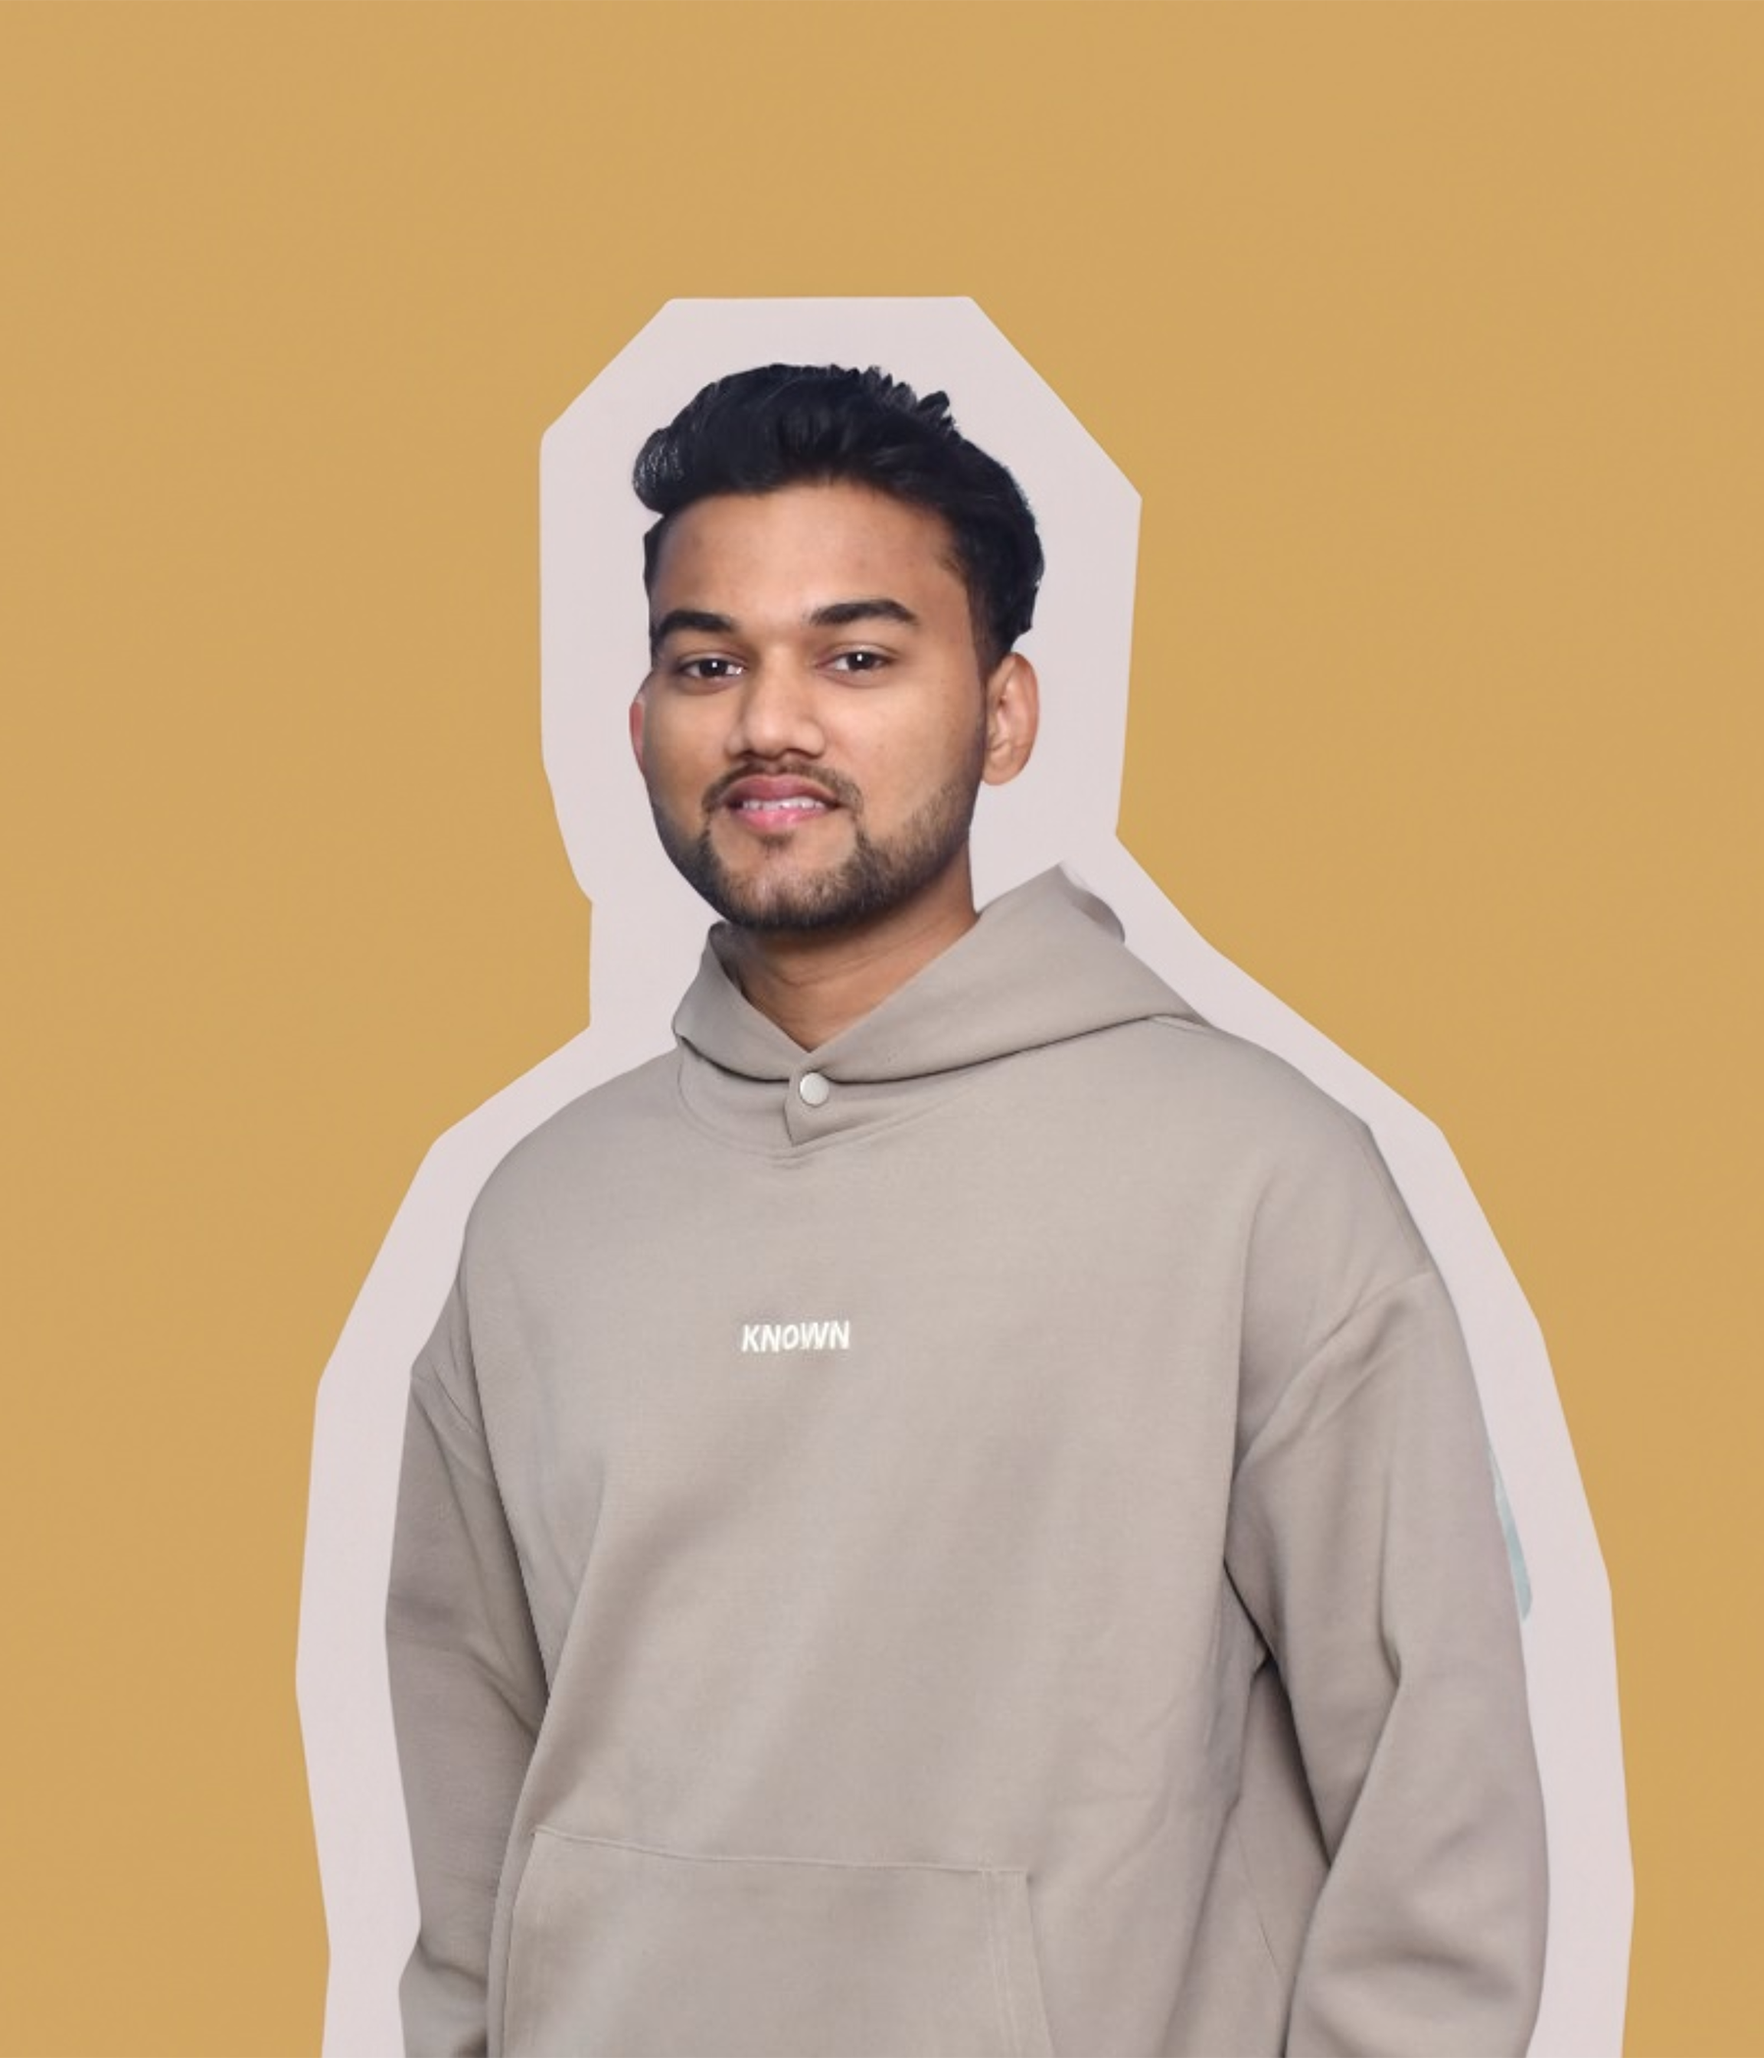
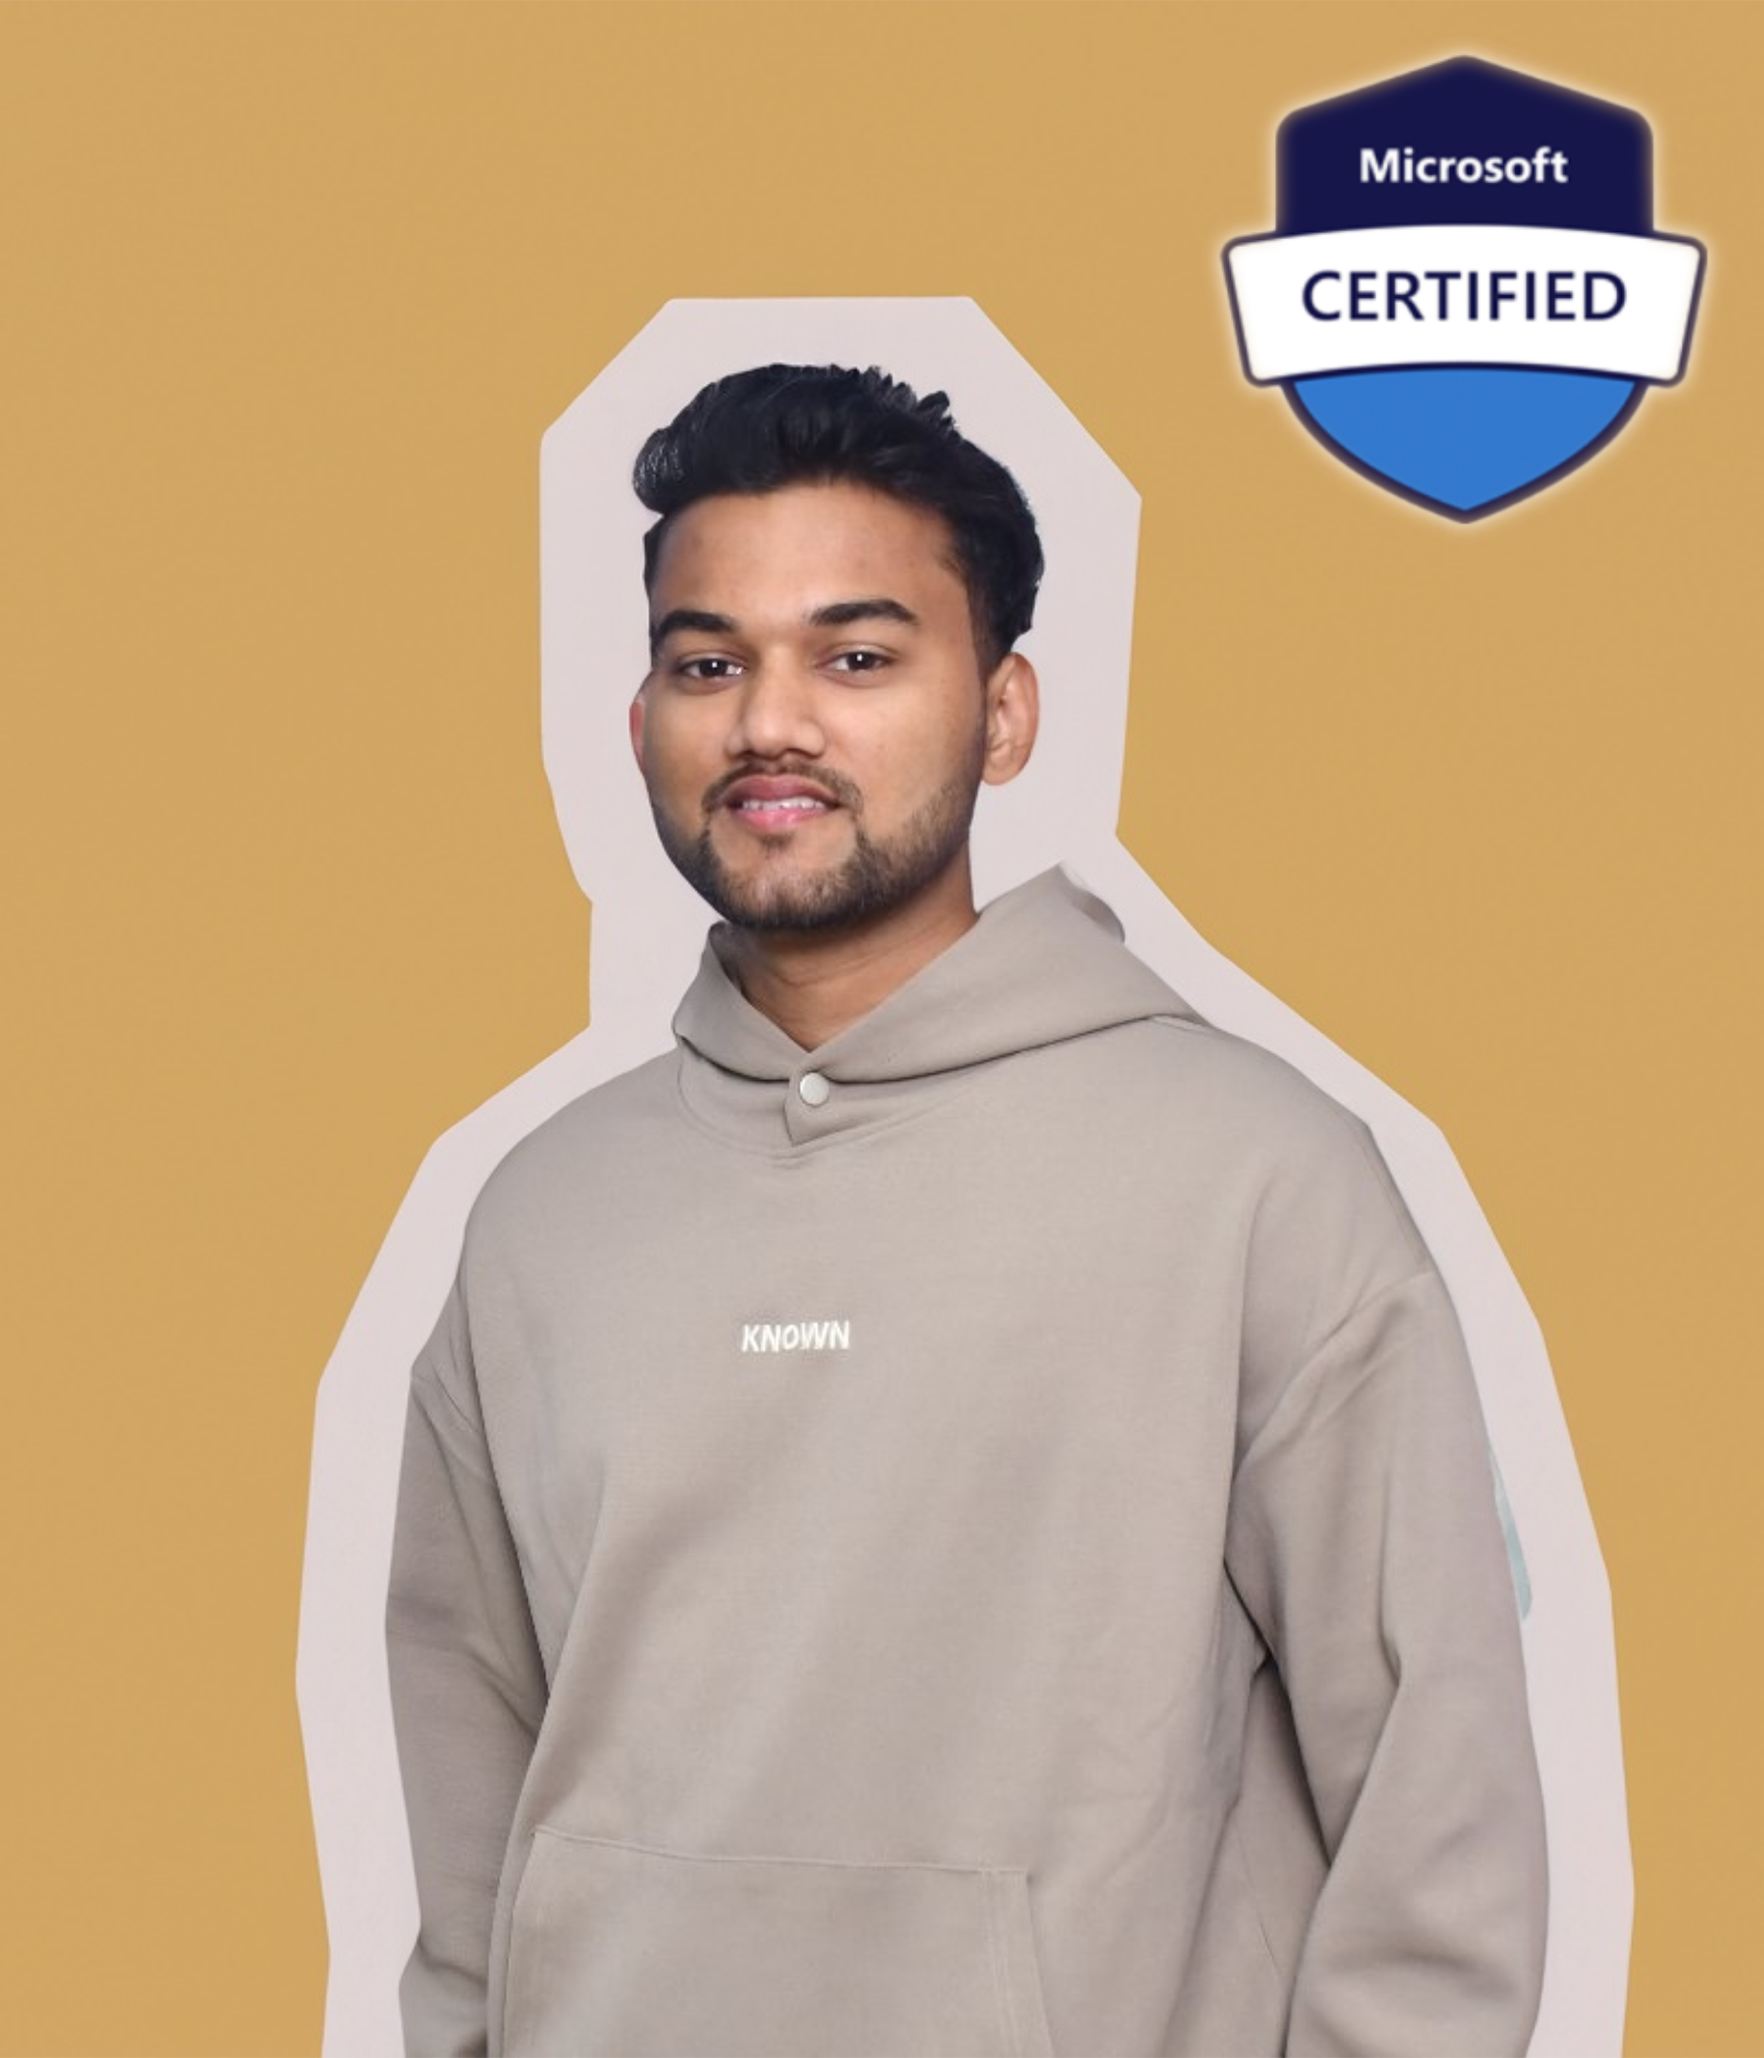
updated profile image

Changed region(s): [[0.6844, 0.0, 0.9956, 0.2786]]

diff --git a/style.css b/style.css
@@ -61,19 +61,6 @@ nav ul li a:hover {
     position: relative;
 }
 
-.micro {
-    float: right;
-    width: 200px;
-    position: relative;
-    clear: right;
-    margin-top: 20px;
-}
-
-.micro img {
-    width: 100%;
-    height: auto;
-}
-
 .content {
     position: absolute;
     top: 50%;
